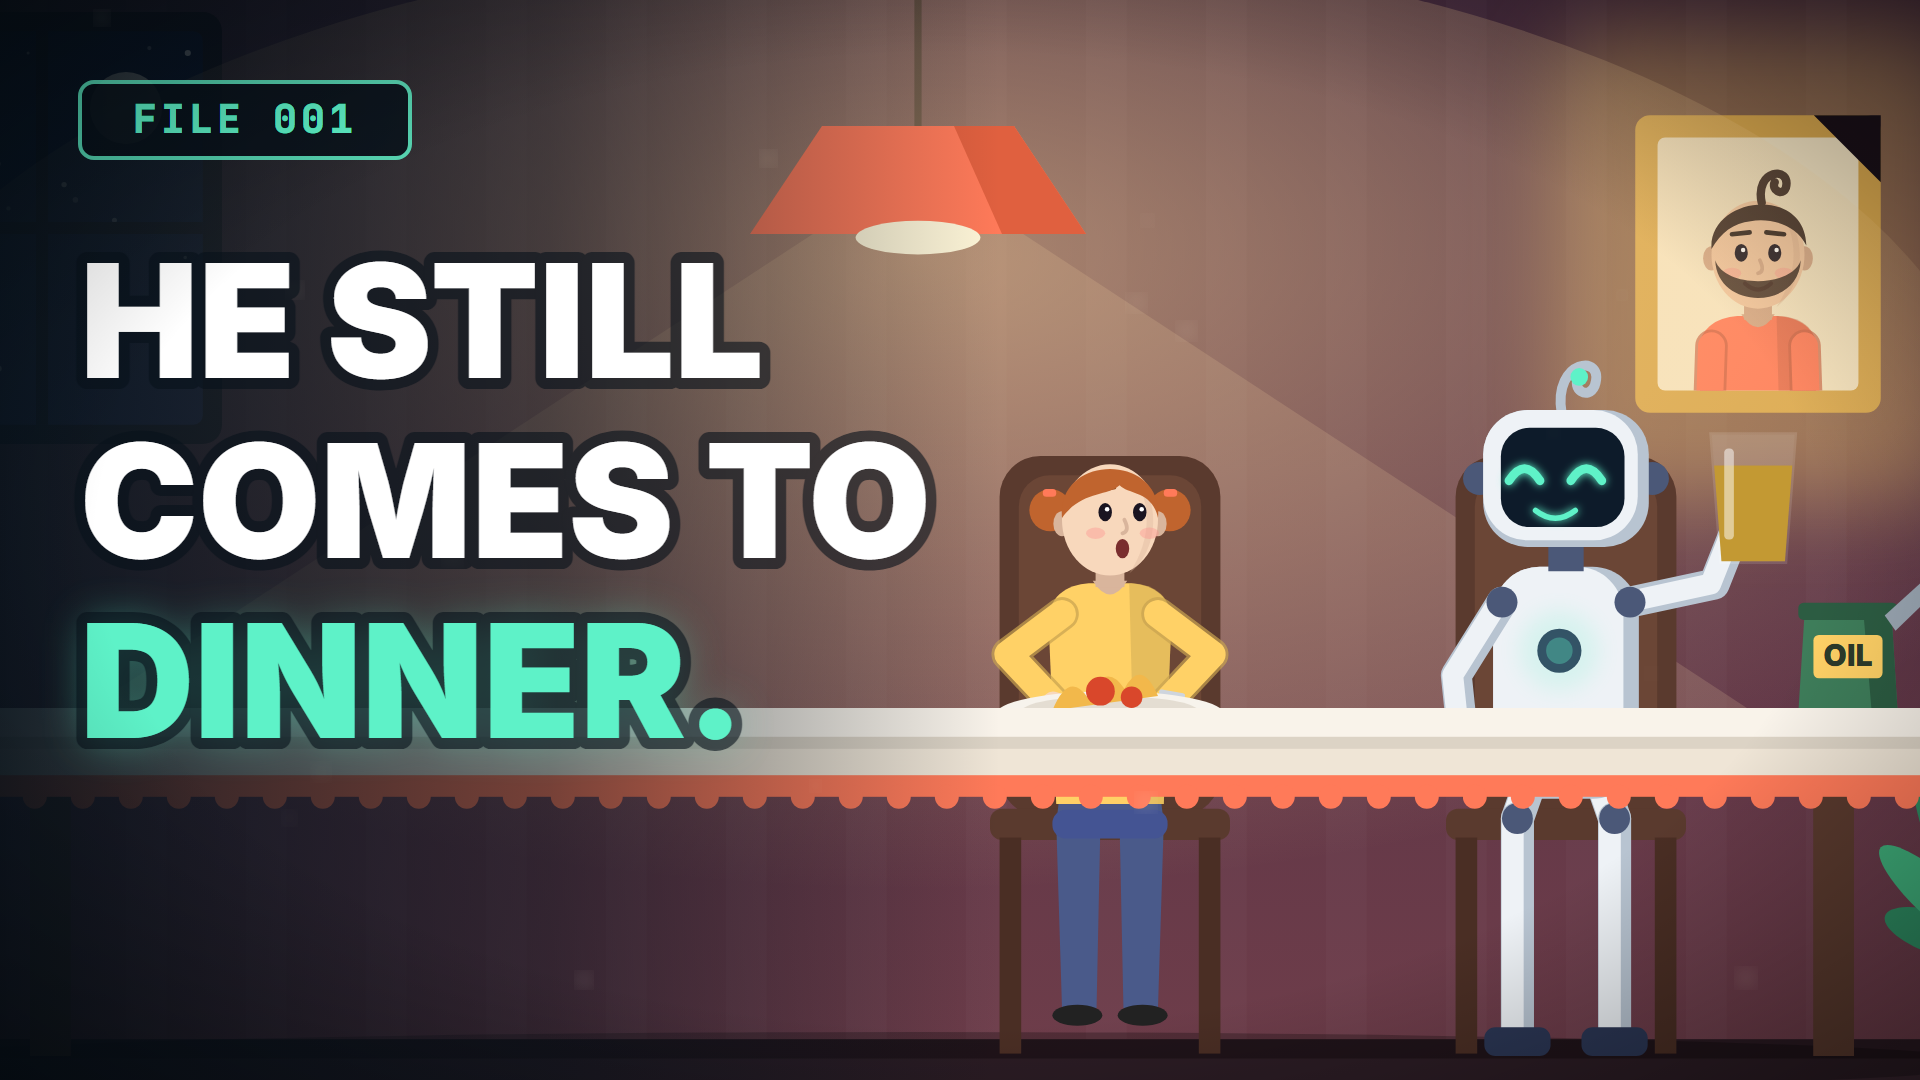
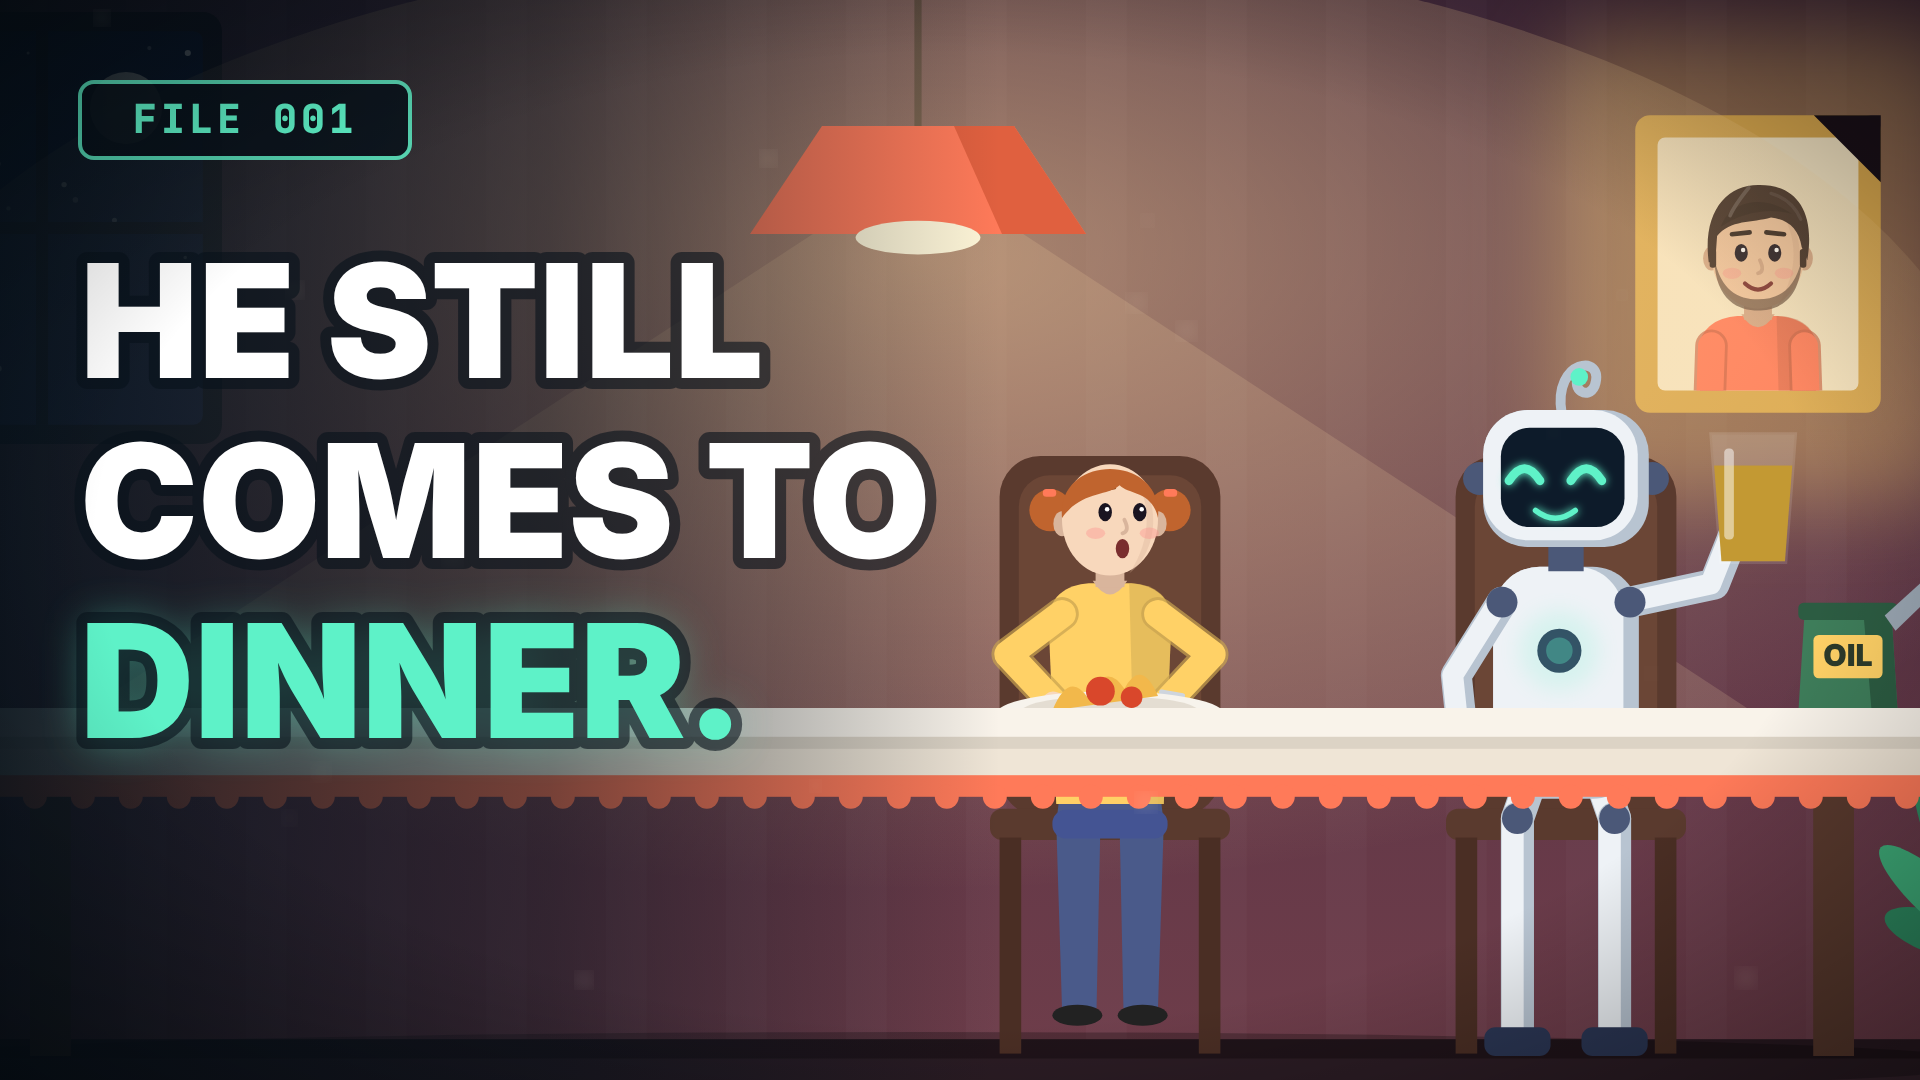
Papa: Kurzhaarschnitt statt Kringel, schmaler Bart mit sichtbarem Mund; Thumbnail neu
Claude-Session: https://claude.ai/code/session_01CuRfxHh2iLhwMTCqKNrY1o

Changed region(s): [[0.875, 0.1528, 0.9375, 0.3056], [0.9375, 0.2139, 0.9688, 0.2444], [0.1562, 0.0917, 0.1875, 0.1222]]

diff --git a/animation/the-copy/lib.js b/animation/the-copy/lib.js
@@ -110,11 +110,14 @@ function hand(hx, hy, ex, ey, r, skin, side) {
 
 const HAIR = {
   // jeweils [hinten, vorne] als Funktion (x, hy Kopfmitte, s, Farbe)
-  dad: [
+  dad: [   // gepflegter Kurzhaarschnitt mit Seitenscheitel und etwas Volumen vorne
     (x, y, s, c) => '',
-    (x, y, s, c) => `<path d="M${x - 50 * s} ${y - 6 * s} C ${x - 54 * s} ${y - 62 * s}, ${x + 50 * s} ${y - 76 * s}, ${x + 52 * s} ${y - 10 * s} C ${x + 40 * s} ${y - 34 * s}, ${x + 10 * s} ${y - 40 * s}, ${x - 8 * s} ${y - 36 * s} C ${x - 26 * s} ${y - 34 * s}, ${x - 40 * s} ${y - 24 * s}, ${x - 50 * s} ${y - 6 * s} Z" fill="${c}"/>
-      <path d="M${x + 4 * s} ${y - 56 * s} C ${x - 4 * s} ${y - 92 * s}, ${x + 36 * s} ${y - 96 * s}, ${x + 30 * s} ${y - 72 * s} C ${x + 26 * s} ${y - 62 * s}, ${x + 14 * s} ${y - 70 * s}, ${x + 18 * s} ${y - 78 * s}" stroke="${c}" stroke-width="${9 * s}" fill="none" stroke-linecap="round"/>`],
-  beard: [(x, y, s, c) => '', (x, y, s, c) => `<path d="M${x - 46 * s} ${y + 6 * s} C ${x - 44 * s} ${y + 60 * s}, ${x + 44 * s} ${y + 60 * s}, ${x + 46 * s} ${y + 6 * s} C ${x + 36 * s} ${y + 36 * s}, ${x - 36 * s} ${y + 36 * s}, ${x - 46 * s} ${y + 6 * s} Z" fill="${c}" opacity=".9"/>`],
+    (x, y, s, c) => `<path d="M${x - 53 * s} ${y + 8 * s} C ${x - 60 * s} ${y - 46 * s}, ${x - 34 * s} ${y - 76 * s}, ${x + 2 * s} ${y - 75 * s} C ${x + 40 * s} ${y - 75 * s}, ${x + 62 * s} ${y - 48 * s}, ${x + 53 * s} ${y + 6 * s} L${x + 47 * s} ${y - 8 * s} C ${x + 44 * s} ${y - 28 * s}, ${x + 32 * s} ${y - 38 * s}, ${x + 14 * s} ${y - 40 * s} C ${x - 6 * s} ${y - 34 * s}, ${x - 30 * s} ${y - 38 * s}, ${x - 44 * s} ${y - 20 * s} L${x - 46 * s} ${y + 8 * s} Z" fill="${c}"/>
+      <path d="M${x - 40 * s} ${y - 30 * s} C ${x - 30 * s} ${y - 58 * s}, ${x + 6 * s} ${y - 66 * s}, ${x + 36 * s} ${y - 44 * s} C ${x + 16 * s} ${y - 50 * s}, ${x - 14 * s} ${y - 48 * s}, ${x - 40 * s} ${y - 30 * s} Z" fill="${mix(c, '#000000', .25)}" opacity=".6"/>
+      <path d="M${x - 10 * s} ${y - 72 * s} C ${x - 18 * s} ${y - 62 * s}, ${x - 26 * s} ${y - 52 * s}, ${x - 30 * s} ${y - 42 * s}" stroke="${mix(c, '#ffffff', .22)}" stroke-width="${4 * s}" fill="none" stroke-linecap="round" opacity=".8"/>
+      <path d="M${x + 14 * s} ${y - 66 * s} C ${x + 28 * s} ${y - 62 * s}, ${x + 40 * s} ${y - 52 * s}, ${x + 46 * s} ${y - 38 * s}" stroke="${mix(c, '#ffffff', .15)}" stroke-width="${3.5 * s}" fill="none" stroke-linecap="round" opacity=".6"/>
+      <rect x="${x - 52 * s}" y="${y - 6 * s}" width="${7 * s}" height="${20 * s}" rx="${3 * s}" fill="${c}"/><rect x="${x + 45 * s}" y="${y - 6 * s}" width="${7 * s}" height="${20 * s}" rx="${3 * s}" fill="${c}"/>`],
+  beard: [(x, y, s, c) => '', (x, y, s, c) => `<path d="M${x - 47 * s} ${y + 4 * s} C ${x - 46 * s} ${y + 50 * s}, ${x - 20 * s} ${y + 60 * s}, ${x} ${y + 60 * s} C ${x + 20 * s} ${y + 60 * s}, ${x + 46 * s} ${y + 50 * s}, ${x + 47 * s} ${y + 4 * s} C ${x + 40 * s} ${y + 38 * s}, ${x + 22 * s} ${y + 48 * s}, ${x} ${y + 48 * s} C ${x - 22 * s} ${y + 48 * s}, ${x - 40 * s} ${y + 38 * s}, ${x - 47 * s} ${y + 4 * s} Z" fill="${c}" opacity=".75"/>`],
   mom: [
     (x, y, s, c) => `<path d="M${x - 62 * s} ${y + 46 * s} C ${x - 78 * s} ${y - 40 * s}, ${x - 40 * s} ${y - 80 * s}, ${x} ${y - 78 * s} C ${x + 40 * s} ${y - 80 * s}, ${x + 78 * s} ${y - 40 * s}, ${x + 62 * s} ${y + 46 * s} Z" fill="${c}"/>`,
     (x, y, s, c) => `<path d="M${x - 54 * s} ${y + 4 * s} C ${x - 58 * s} ${y - 60 * s}, ${x + 20 * s} ${y - 82 * s}, ${x + 54 * s} ${y - 20 * s} C ${x + 30 * s} ${y - 40 * s}, ${x - 10 * s} ${y - 30 * s}, ${x - 30 * s} ${y - 40 * s} C ${x - 40 * s} ${y - 20 * s}, ${x - 46 * s} ${y - 8 * s}, ${x - 54 * s} ${y + 4 * s} Z" fill="${c}"/>`],
@@ -203,6 +206,7 @@ function person(o) {
   const brow = { neutral: [0, 0], up: [-8, -8], worried: [6, -6], angry: [-6, 6], sad: [6, -4] }[bw] || [0, 0];
   face += `<path d="M${ex - 28 * s} ${by + brow[0] * s * .3} L${ex - 9 * s} ${by + brow[1] * s * .5 - 2 * s}" stroke="${bc}" stroke-width="${5 * s}" stroke-linecap="round"/>
     <path d="M${ex + 9 * s} ${by + brow[1] * s * .5 - 2 * s} L${ex + 28 * s} ${by + brow[0] * s * .3}" stroke="${bc}" stroke-width="${5 * s}" stroke-linecap="round"/>`;
+  if (o.beard) face += HAIR.beard[1](x, hy, s, mix(hc, o.skin || '#f2c6a0', .25));
   // Nase
   face += `<path d="M${ex + 2 * s} ${ey + 8 * s} Q ${ex + 8 * s} ${ey + 20 * s} ${ex} ${ey + 22 * s}" stroke="${shade}" stroke-width="${4 * s}" fill="none" stroke-linecap="round"/>`;
   // Mund
@@ -218,7 +222,6 @@ function person(o) {
   };
   face += mouths[o.mouth || 'smile'];
   if (o.age) face += `<path d="M${ex - 34 * s} ${ey + 4 * s} l -8 4 M${ex + 34 * s} ${ey + 4 * s} l 8 4 M${mx - 22 * s} ${my - 6 * s} q -4 8 2 14 M${mx + 22 * s} ${my - 6 * s} q 4 8 -2 14" stroke="${shade}" stroke-width="${3 * s}" fill="none" opacity="${o.age}" stroke-linecap="round"/>`;
-  if (o.beard) face += HAIR.beard[1](x, hy, s, hc);
   face += hairs[1](x, hy, s, hc);
   if (o.glasses) face += `<g stroke="#1a1420" stroke-width="${3.5 * s}" fill="#fff" fill-opacity=".12"><circle cx="${ex - 18 * s}" cy="${ey}" r="${15 * s}"/><circle cx="${ex + 18 * s}" cy="${ey}" r="${15 * s}"/><line x1="${ex - 3 * s}" y1="${ey}" x2="${ex + 3 * s}" y2="${ey}"/></g>`;
   if (o.hat) face += o.hat(x, hy, s);
